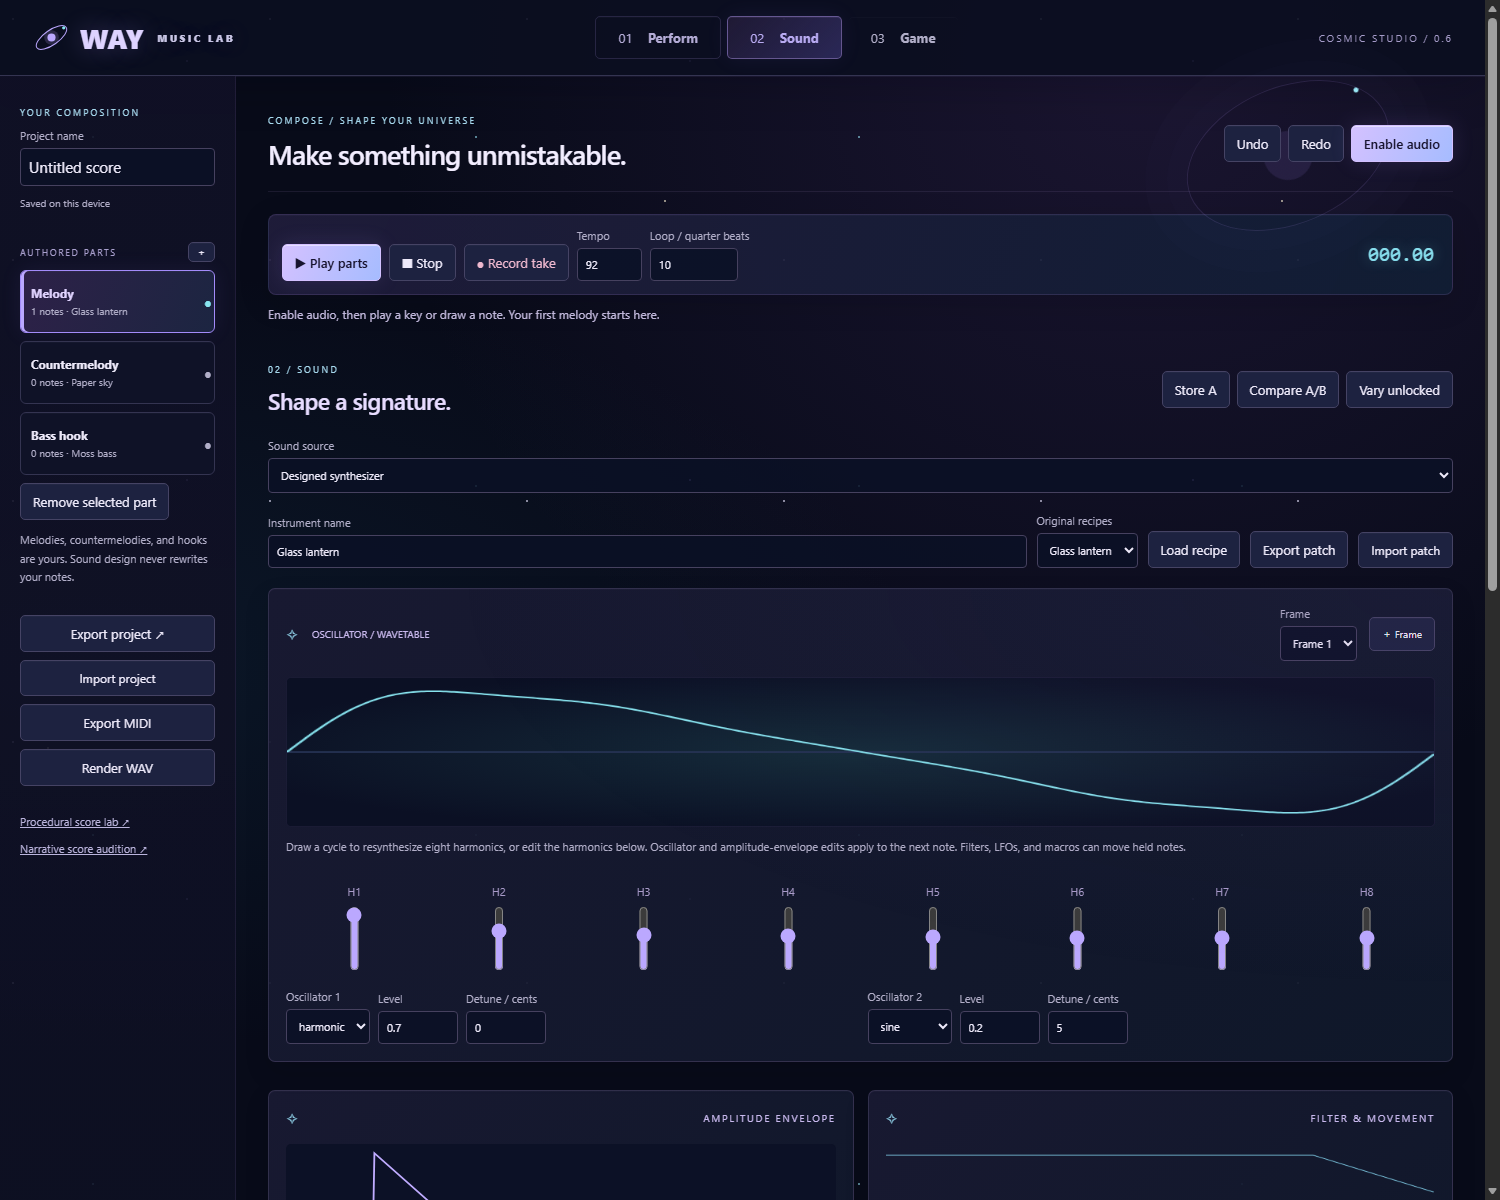
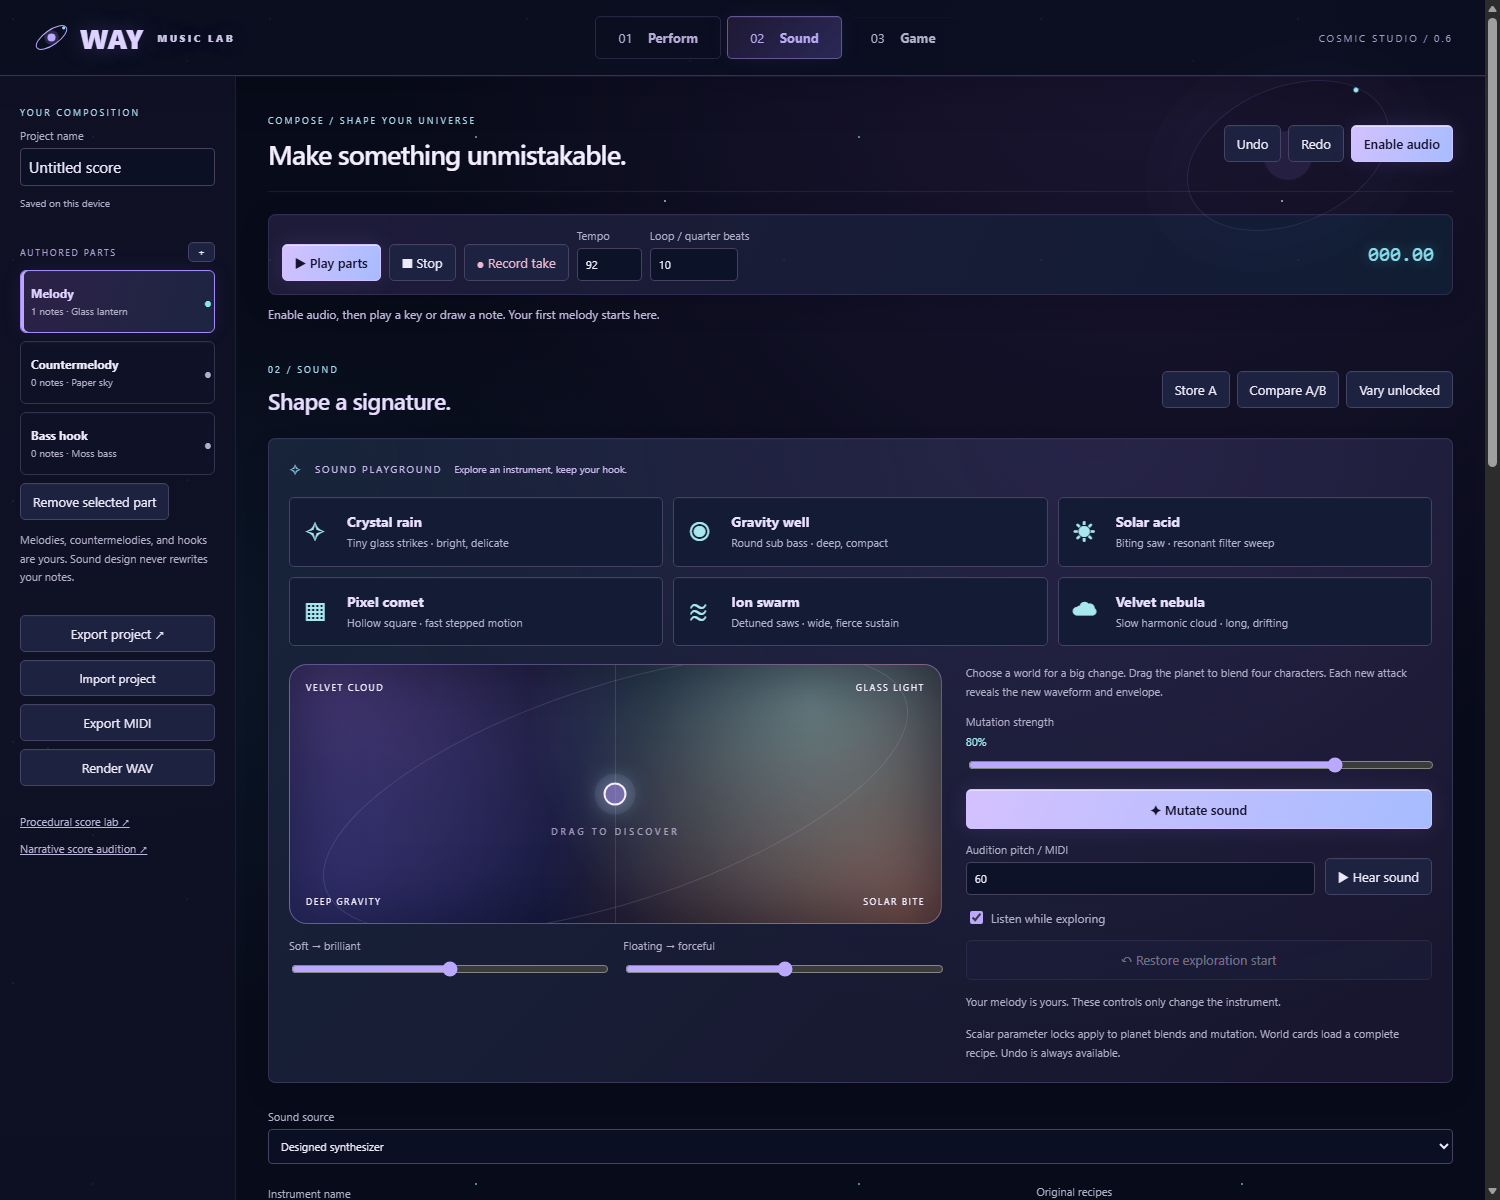
Add interactive sound worlds, planet morphing and bold synth mutation

diff --git a/web/studio.html b/web/studio.html
@@ -12,6 +12,7 @@
 <div class="note-editor"><label>Pitch / MIDI<input id="note-pitch" type="number" min="0" max="127" value="60"></label><label>Start / beats<input id="note-start" type="number" min="0" max="256" step="0.25" value="0"></label><label>Length / beats<input id="note-length" type="number" min="0.01" max="128" step="0.25" value="0.5"></label><label>Velocity<input id="note-velocity" type="number" min="1" max="127" value="90"></label><label>Bend / semitones<input id="note-bend" type="number" min="-24" max="24" step="0.1" value="0"></label><button id="add-note">Add note</button><button id="update-note">Update selected</button><button id="delete-note">Delete selected</button></div>
 <div class="take"><span id="take-state">Record a take, then choose whether to keep it.</span><button id="keep-take" disabled>Keep take</button><button id="discard-take" disabled>Discard take</button><label class="check"><input id="record-loop" type="checkbox" checked>Loop overdub</label><label class="check"><input id="step-input" type="checkbox">Step input</label></div><div id="note-list" class="note-list"></div></section>
 <section id="sound" class="workspace" hidden><div class="section-heading"><div><p class="eyebrow">02 / SOUND</p><h2>Shape a signature.</h2></div><div class="buttons"><button id="store-a">Store A</button><button id="compare-a">Compare A/B</button><button id="vary">Vary unlocked</button></div></div>
+<div class="panel sound-playground"><div class="panel-title">SOUND PLAYGROUND <span>Explore an instrument, keep your hook.</span></div><div id="sound-worlds" class="sound-worlds"></div><div class="playground-grid"><div><div id="sound-planet" class="sound-planet" role="group" aria-label="Sound planet. Drag to explore, or use the two sliders below."><span class="planet-label top-left">VELVET CLOUD</span><span class="planet-label top-right">GLASS LIGHT</span><span class="planet-label bottom-left">DEEP GRAVITY</span><span class="planet-label bottom-right">SOLAR BITE</span><div id="planet-cursor" class="planet-cursor"></div><span class="planet-instruction">DRAG TO DISCOVER</span></div><div class="planet-axes"><label>Soft → brilliant<input id="planet-x" type="range" min="0" max="1" step="0.01" value="0.5"></label><label>Floating → forceful<input id="planet-y" type="range" min="0" max="1" step="0.01" value="0.5"></label></div></div><div class="playground-actions"><p class="quiet">Choose a world for a big change. Drag the planet to blend four characters. Each new attack reveals the new waveform and envelope.</p><label>Mutation strength <output id="mutation-value">80%</output><input id="mutation-strength" type="range" min="0" max="1" step="0.01" value="0.8"></label><button id="mutate-sound" class="accent">✦ Mutate sound</button><div class="control-row"><label>Audition pitch / MIDI<input id="audition-pitch" type="number" min="24" max="96" value="60"></label><button id="audition-sound">▶ Hear sound</button></div><label class="check"><input id="explore-listen" type="checkbox" checked>Listen while exploring</label><button id="restore-sound">↶ Restore exploration start</button><p id="playground-status" class="quiet" aria-live="polite">Your melody is yours. These controls only change the instrument.</p><p class="quiet">Scalar parameter locks apply to planet blends and mutation. World cards load a complete recipe. Undo is always available.</p></div></div></div>
 <div class="control-row"><label>Sound source<select id="instrument-source"><option value="synth">Designed synthesizer</option><option value="orchestra">Recorded orchestra · VSCO CE</option></select></label></div><div id="recorded-controls" class="control-row" hidden><label>Recorded role<select id="recorded-role"><option value="strings">Strings · violin / cello</option><option value="harp">Harp</option><option value="woodwind">Flute</option><option value="horn">French horn</option><option value="percussion">Percussion · GM drum pitches</option></select></label><label>Articulation<select id="recorded-articulation"><option value="sustain">Sustain / pluck / hit</option><option value="short">Short / staccato</option></select></label><button id="load-recordings">Preload recordings</button><span id="recording-status">95 local recordings · CC0</span></div><div class="control-row"><label>Instrument name<input id="patch-name" maxlength="100"></label><label>Original recipes<select id="preset"><option>Glass lantern</option><option>Paper sky</option><option>Copper wire</option><option>Moss bass</option></select></label><button id="load-preset">Load recipe</button><button id="save-patch">Export patch</button><label class="file">Import patch<input id="import-patch" type="file" accept=".json,application/json"></label></div>
 <div class="sound-grid"><div id="synthesis-panel" class="panel waveform"><div class="panel-title"><span>OSCILLATOR / WAVETABLE</span><label>Frame<select id="frame"></select></label><button id="add-frame">＋ Frame</button></div><canvas id="wave" width="840" height="190" aria-label="Draw a waveform with the pointer; or edit harmonics below"></canvas><p class="quiet">Draw a cycle to resynthesize eight harmonics, or edit the harmonics below. Oscillator and amplitude-envelope edits apply to the next note. Filters, LFOs, and macros can move held notes.</p><div id="harmonics" class="harmonics"></div><div id="oscillators" class="oscillators"></div></div><div class="panel"><div class="panel-title">AMPLITUDE ENVELOPE</div><svg id="envelope" viewBox="0 0 420 120" role="img" aria-label="Amplitude envelope"></svg><div id="envelope-controls" class="sliders"></div></div><div class="panel"><div class="panel-title">FILTER & MOVEMENT</div><canvas id="filter-view" width="420" height="100" aria-label="Schematic filter cutoff view"></canvas><div id="filter-controls" class="sliders"></div></div><div class="panel"><div class="panel-title">MODULATION ROUTES</div><p class="quiet">Choose a source, destination, and signed depth.</p><div id="routes"></div><button id="add-route">＋ Modulation route</button><label>LFO shape<select id="lfo-shape"><option>sine</option><option>triangle</option><option>square</option></select></label><label class="check"><input id="lfo-sync" type="checkbox">Sync LFO to tempo (rate = quarter beats)</label><div id="fx-controls" class="sliders"></div></div></div>
 <p id="modulation-state" class="quiet">Play a note to see its effective filter and modulation position.</p><div class="panel"><div class="panel-title">PERFORMANCE MACROS <span>Bounded controls for hands and gameplay</span></div><div id="macros" class="macro-row"></div></div></section>

diff --git a/web/studio.css b/web/studio.css
@@ -32,3 +32,11 @@ input:not([type=range]):not([type=checkbox]),select{background:#0b1026d9;border-
 footer{border-top:1px solid #8970b52c;padding-top:17px;color:#a69abf}a:hover{color:#a3e5ee}
 @media(max-width:720px){.transport::after{right:1%;top:0;width:140px;height:85px;opacity:.7}.orbit-mark{width:31px;height:31px}.brand{font-size:25px}.transport{padding-bottom:17px}.panel-title{letter-spacing:1px}.brand span{font-size:9px}}
 @media(prefers-reduced-motion:reduce){button,.file,nav button{transition:none}}
+
+/* Playable sound discovery surface. No animated background or external assets. */
+.sound-playground{margin:18px 0 26px;padding:20px;background:radial-gradient(ellipse at 70% 0,#51357a44,transparent 65%),linear-gradient(135deg,#17243a,#18152e)}
+.sound-worlds{display:grid;grid-template-columns:repeat(3,minmax(0,1fr));gap:10px;margin:18px 0}.sound-world{min-width:0;text-align:left;display:grid;grid-template-columns:35px 1fr;gap:4px 8px;padding:14px;background:#141b34;white-space:normal}.sound-world .world-icon{grid-row:span 2;font-size:27px;color:#a8e7ed}.sound-world strong{font-size:14px;color:#e9dfff}.sound-world small{font-size:11px;line-height:1.5;color:#b4b0ce}.sound-world:hover,.sound-world:focus-visible{border-color:#bba8ff;background:#33264c;box-shadow:0 0 24px #a888ff24;transform:translateY(-1px)}
+.playground-grid{display:grid;grid-template-columns:minmax(0,1.4fr) minmax(230px,1fr);gap:24px}.playground-grid>div{min-width:0}.sound-planet{position:relative;min-height:260px;touch-action:none;cursor:crosshair;overflow:hidden;border:1px solid #8e7ebb80;border-radius:18px;background:radial-gradient(circle at 80% 15%,#a7f0ea6b,transparent 50%),radial-gradient(circle at 95% 100%,#fa885b70,transparent 55%),radial-gradient(circle at 0 100%,#43429f88,transparent 60%),radial-gradient(circle at 5% 0,#bf7ee455,transparent 50%),#0a1027;box-shadow:inset 0 0 65px #06091880}
+.sound-planet::before{content:'';position:absolute;inset:20px;border:1px solid #dcc9ff26;border-radius:50%;transform:rotate(-18deg);pointer-events:none}.sound-planet::after{content:'';position:absolute;inset:0;pointer-events:none;background:linear-gradient(transparent calc(50% - .5px),#d4d6ff22 50%,transparent calc(50% + .5px)),linear-gradient(90deg,transparent calc(50% - .5px),#d4d6ff22 50%,transparent calc(50% + .5px))}.planet-label{position:absolute;font-size:9px;letter-spacing:1.5px;color:#f1eaff;pointer-events:none}.top-left{left:16px;top:16px}.top-right{right:16px;top:16px}.bottom-left{left:16px;bottom:16px}.bottom-right{right:16px;bottom:16px}.planet-cursor{position:absolute;left:50%;top:50%;width:23px;height:23px;transform:translate(-50%,-50%);border:2px solid #f8ecff;border-radius:50%;background:#b5a1ff88;box-shadow:0 0 0 9px #dfbdff18,0 0 25px #a2e9fdbb;pointer-events:none;z-index:1}.planet-instruction{position:absolute;left:0;right:0;top:62%;text-align:center;font-size:9px;letter-spacing:3px;color:#e8dcffa0;pointer-events:none}.planet-axes{display:grid;grid-template-columns:1fr 1fr;gap:16px;margin-top:14px}.planet-axes input,.playground-actions input[type=range]{width:100%;min-width:0}.playground-actions{display:flex;flex-direction:column;gap:13px}.playground-actions p{margin:0}.playground-actions .control-row{margin:0;align-items:end}.playground-actions output{color:#a0e7f0;float:right}.playground-actions>button{min-height:40px}.playground-actions .control-row label{flex:1;min-width:90px}.playground-actions input[type=number]{width:100%}
+@media(max-width:1000px){.playground-grid{grid-template-columns:1fr}.sound-worlds{grid-template-columns:repeat(2,minmax(0,1fr))}}
+@media(max-width:480px){.sound-playground{padding:14px}.sound-world{grid-template-columns:1fr;padding:10px}.sound-world .world-icon{grid-row:auto;font-size:23px}.sound-world strong{font-size:13px}.sound-world small{font-size:10px}.planet-label{font-size:8px;letter-spacing:1px}.planet-axes{gap:12px}.sound-planet{min-height:235px}}

diff --git a/docs/authoring-studio.md b/docs/authoring-studio.md
@@ -22,6 +22,16 @@ The variable meter field accepts the same additive cycles as the earlier tool, f
 
 Each part owns its own instrument patch. Four original starting recipes provide bell/pluck, pad, lead, and bass directions. They contain no third-party recordings or factory presets.
 
+The **Sound playground** offers six original, contrasting worlds: Crystal rain (glass pluck), Gravity well (sub), Solar acid (resonant saw), Pixel comet (stepped square), Ion swarm (detuned saws), and Velvet nebula (slow harmonic pad). Cards load a full synth recipe, including waveform, envelope, filter, movement and effects. They intentionally replace scalar locks; use the planet or mutation when you want locks preserved.
+
+Drag the **sound planet** between velvet/glass/deep/acid corners. Two labeled range sliders provide the same control with a keyboard. Interior blends resynthesize the main oscillator into two eight-partial harmonic frames with a sine secondary; they approximate the corners rather than crossfade four rendered recordings. Cutoff, envelope times and LFO rate interpolate logarithmically, while amplitudes, harmonics and macro values interpolate linearly. Discrete LFO shape/sync choices switch at the midpoint. The instrument editor below reflects the resulting patch.
+
+**Mutate sound** spans subtle-to-complete changes using the strength slider: it selects a contrasting world, changes its harmonics/cutoff/position, and blends from your patch. Scalar locks survive both mutation and planet exploration. The original **Vary unlocked** button remains a gentler local variation.
+
+**Listen while exploring** auditions cards, mutations, and released sliders at the selected MIDI pitch. Holding the planet retriggers that pitch periodically so oscillator and envelope changes are audible on new attacks; continuous filter/macro changes also update the held preview. **Hear sound** plays one preview without adding notes, engaging step input, or recording a take. Slow pads need time to bloom. Stop/All notes off/focus loss cancel preview audio. Finish a current take before using the playground. Preview level uses the main listening level; recipes are not loudness-matched.
+
+**Restore exploration start** recalls the selected part's complete patch from before its first playground change in this visit. Switching parts or importing a project resets this temporary reference. Project Undo/Redo retains individual edits; a pointer drag commits once on release and cancellation restores the pre-drag patch. Export the patch or store a named Game variation to preserve a discovery. All exploration edits only the selected instrument and never writes melody notes.
+
 Sound source also offers the bundled **recorded orchestra**: strings, harp, flute, French horn, and percussion, with sustain or short articulation selection. Preload recordings or start playing to load and verify the 95 local CC0 WAVs. Melody/countermelody parts and saved variations can mix synthesized and recorded instruments. The same event ID selects the same recorded take in live and offline rendering. Percussion uses GM drum pitches such as 36 (kick), 38 (snare), 42 (short cymbal substitute), and 45 (timpani); set the input octave or enter the corresponding MIDI pitches. The compact bank still has the pitch-shifting and articulation limits described in the root README.
 
 The waveform/oscillator editor applies to the designed-synth source. Envelopes, filters, effects, and filter/pitch modulation also shape recorded instruments. Wavetable-position modulation has no effect on a recorded source. A live readout shows the selected part's effective filter and modulation values while playing.

diff --git a/VERIFICATION-0.6.md b/VERIFICATION-0.6.md
@@ -4,7 +4,7 @@ November 2, 2026. Verified in the standalone Way-Music-Lab checkout. Browser che
 
 ## Passed checks
 
-- `node --test tests/*.test.mjs`: **62 tests pass**, including 43 existing regression tests and nineteen authoring, audio-contract, stage-policy, compatibility, recorded-source, and keyboard-map tests.
+- `node --test tests/*.test.mjs`: **65 tests pass**, including the existing regressions and three sound-playground tests for contrasting recipes, bounded blends, locks, deterministic mutation, and protected hooks.
 - `node scripts/check-studio-ui.mjs`: isolated in-memory DOM checks pass note entry, protected hooks, meter edits, variations, recording/keeping a take, undo/redo, and part creation. This check uses canvas/audio doubles and a pinned development-only LinkeDOM worker.
 - `node scripts/check-studio-isolated.mjs "C:\Program Files (x86)\Microsoft\Edge\Application\msedge.exe"`: real-page and native Web Audio checks pass. The fixture waits for actual audio completion rather than advancing a virtual clock past rendering.
 - New modules parse, local documentation links resolve, and `git diff --check` passes.
@@ -26,6 +26,10 @@ November 2, 2026. Verified in the standalone Way-Music-Lab checkout. Browser che
 | Perform, Sound, Game at 430 px | Each document measures 415 px wide, with no horizontal overflow. |
 
 Screenshots of all six workspace/viewport combinations were generated and inspected. The checks exposed mobile overflow in volume and harmonic controls; both are corrected. [Sound workspace preview](docs/media/studio-sound-0.6.png). [Recorded measurements](docs/studio-verification.json).
+
+## Sound playground verification
+
+Six native WAV probes render the same C4 note through all six worlds: non-silent peaks range from 0.0128 to 0.1249, below clipping for this test. First-second zero-crossing counts range from 491 to 1119; crystal sustain RMS is approximately 0.00022 versus drone sustain RMS 0.00930. These are basic contrast/signal checks, not perceptual quality or loudness matching. A real pointer drag commits the final planet coordinates and restores the initial patch; native card audition, slider/mutation persistence, restoration, and note protection pass. All six responsive workspace checks remain free of horizontal overflow.
 
 ## Requirement audit
 

diff --git a/README.md b/README.md
@@ -2,6 +2,8 @@
 
 Version **0.6** revamps Way into an **authored music studio** with Perform, Sound, and Game workspaces. Play a customizable computer/MIDI keyboard, record melodies and countermelodies, edit the piano roll, design harmonic/wavetable instruments or choose recorded orchestral sounds per part, save patches and variations, and map gameplay to approved sound and arrangement controls. Projects start with empty musical parts; procedural sound design never replaces your hooks. Read the [studio guide and game-host API](docs/authoring-studio.md).
 
+The Sound workspace now includes six contrasting sound worlds, a draggable sound planet, strength-controlled mutation, immediate note audition, and a full exploration-start restore. All sound discovery preserves your authored notes.
+
 The earlier procedural score generator and recorded-orchestra auditions remain available. Version **0.4** uses **recorded orchestral instruments** with variable meters, a syncopated math-rock rhythmic preset, and a theory-based phrase planner: violin/cello ensemble, harp, flute, French horn, and percussion. The composer and score contract are portable; audio adapters currently target browsers. A native Unreal plugin remains future work.
 
 Version **0.5** adds a portable **narrative score director**: one authored theme for the title, a contemplative opening, playful player control, smoothed movement/action responses, danger hysteresis, and timed story cues. Open [the story-score audition](http://127.0.0.1:4317/web/director.html) after starting the server, or read [the narrative scoring design](docs/narrative-scoring.md).

diff --git a/ATTRIBUTIONS.md b/ATTRIBUTIONS.md
@@ -83,3 +83,5 @@ These projects informed the comparison in [music-research.md](docs/music-researc
 | [Philharmonia samples](https://philharmonia.co.uk/resources/sound-samples/) | Alternative recording source; no files downloaded into this bank. |
 
 The maintained ComfyUI toolkit referenced in the parent Way workspace generates visual assets. It is not used to compose, render or package this music project; no ComfyUI, Qwen model, model weight or generated visual asset is bundled here. The music lab uses system fonts and original HTML/CSS, with no downloaded font or icon package.
+
+The cosmic Sound playground, six sound-world parameter recipes, harmonic morphing, mutation controls, and original CSS/SVG interface are original Way code and data under MIT. No commercial synthesizer code, factory preset, waveform recording, font, icon pack, or new runtime dependency was imported for this update.
